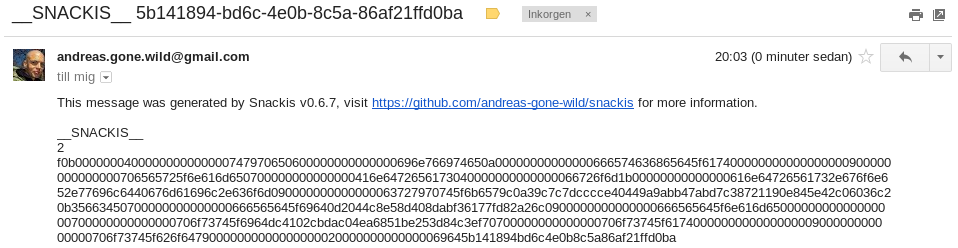
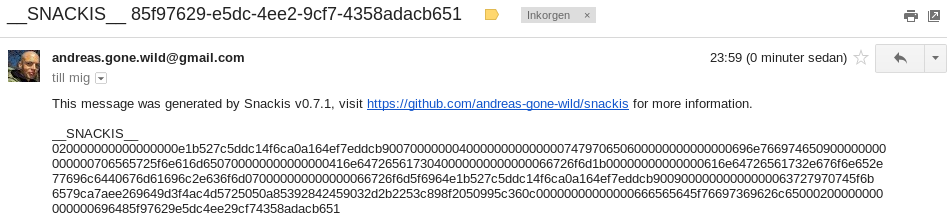
improved msg encoding

Changed region(s): [[0.0, 0.0274, 1.0, 0.9863], [0.9463, 0.0274, 1.0, 0.1096], [0.9158, 0.3288, 1.0, 0.3562]]

diff --git a/src/snackis/msg.cpp b/src/snackis/msg.cpp
@@ -1,6 +1,8 @@
 #include "snackis/ctx.hpp"
 #include "snackis/msg.hpp"
 #include "snackis/snackis.hpp"
+#include "snackis/core/prim_type.hpp"
+#include "snackis/core/uid_type.hpp"
 
 namespace snackis {
   const str
@@ -24,79 +26,60 @@ namespace snackis {
 
   str encode(const Msg &msg) {
     Ctx &ctx(msg.ctx);
+    const bool encrypt(msg.type != Msg::INVITE &&
+		       msg.type != Msg::REJECT);
     
     Stream buf;
     db::Rec<Msg> rec;
     copy(ctx.db.inbox, rec, msg);
     write(ctx.db.inbox, rec, buf, nullopt);
-    const str data(buf.str());
-
-    if (msg.type == Msg::INVITE || msg.type == Msg::REJECT) {
-      return
-	fmt("%0\r\nf%1", PROTO_REV,
-	    bin_hex(reinterpret_cast<const unsigned char *>(data.c_str()),
-		    data.size()));
+    str data(buf.str());
+    
+    if (encrypt) {
+      Peer peer(get_peer_id(ctx, msg.to_id));
+      Data out(crypt::encrypt(*get_val(ctx.settings.crypt_key), peer.crypt_key,
+			      reinterpret_cast<const unsigned char *>(data.c_str()),
+			      data.size()));
+      data.assign(out.begin(), out.end());
     }
 
-    Peer peer(get_peer_id(ctx, msg.to_id));
-    Data out(crypt::encrypt(*get_val(ctx.settings.crypt_key), peer.crypt_key,
-			    reinterpret_cast<const unsigned char *>(data.c_str()),
-			    data.size()));
-
-    return fmt("%0\r\nt%1%2",
-	       PROTO_REV, msg.from_id, bin_hex(&out[0], out.size()));
+    buf.str("");
+    int64_type.write(PROTO_REV, buf);
+    bool_type.write(encrypt, buf);
+    if (encrypt) { uid_type.write(msg.from_id, buf); }
+    buf << data;
+    data = buf.str();
+    
+    return bin_hex(reinterpret_cast<const unsigned char *>(data.c_str()),
+		   data.size());
   }
 
   bool decode(Msg &msg, const str &in) {
-    auto i(in.find("\r\n"));
-    if (i == str::npos) { return false; }
-    auto proto_rev = to_int64(in.substr(0, i));
+    Ctx &ctx(msg.ctx);
+    Data data(hex_bin(in));
+    InStream in_buf(str(data.begin(), data.end()));
 
-    if (!proto_rev) {
-      log(msg.ctx, "Failed decoding protocol revision");
-      return false;
-    }
-    
-    if (*proto_rev != PROTO_REV) {
+    const int64_t proto_rev(int64_type.read(in_buf));
+
+    if (proto_rev != PROTO_REV) {
       log(msg.ctx, "Protocol revision mismatch");
       return false;
     }
     
-    i += 2;
-    bool encrypted(in[i] == 't');
+    const bool decrypt(bool_type.read(in_buf));
 
-    if (!encrypted && in[i] != 'f') {
-      log(msg.ctx, "Invalid message format");
-      return false;
-    }
-
-    i++;
-    
-    if (encrypted) {
-      auto id (parse_uid(in.substr(i, 36)));
-
-      if (!id) {
-	log(msg.ctx, "Invalid message format");
-	return false;
-      }
-      
-      msg.from_id = *id;
-      i += 36;
-    }
-
-    Ctx &ctx(msg.ctx);
-    Data dat(hex_bin(in.substr(i)));
-
-    if (encrypted) {
+    if (decrypt) {
+      msg.from_id = uid_type.read(in_buf);
       const Peer peer(get_peer_id(ctx, msg.from_id));
-      dat = crypt::decrypt(*get_val(ctx.settings.crypt_key), peer.crypt_key,
-			   &dat[0],
-			   dat.size());
+      data.erase(data.begin(), data.begin()+in_buf.tellg());
+      data = crypt::decrypt(*get_val(ctx.settings.crypt_key), peer.crypt_key,
+			    &data[0],
+			    data.size());
+      in_buf.str(str(data.begin(), data.end()));
     }
 
-    Stream buf(str(dat.begin(), dat.end()));
     db::Rec<Msg> rec;
-    read(ctx.db.inbox, buf, rec, nullopt);
+    read(ctx.db.inbox, in_buf, rec, nullopt);
     copy(ctx.db.inbox, msg, rec);
     return true;
   }

diff --git a/README.md b/README.md
@@ -64,7 +64,7 @@ Type ```decrypt``` and press ```Return``` in the reader to open the decryption v
 Type ```invite foo@bar.com``` in the reader and press ```Return``` to create a new invite. Snackis will send an email containing your public encryption key to the specified address. When an invite is accepted/rejected, a reply is sent to inform the inviting peer. The easiest way to see how it works is to try with your own address.
 
 ### Messages
-All Snackis-messages look more or less the same to the outside world. Most of the actual data is appended in encrypted (except for invites) and encoded form below the ```__SNACKIS__```-marker.
+All Snackis-messages look more or less the same to the outside world, the actual data is appended in encrypted (except for invites) and encoded form below the ```__SNACKIS__```-marker.
 
 ![message example](images/message.png?raw=true)
 
